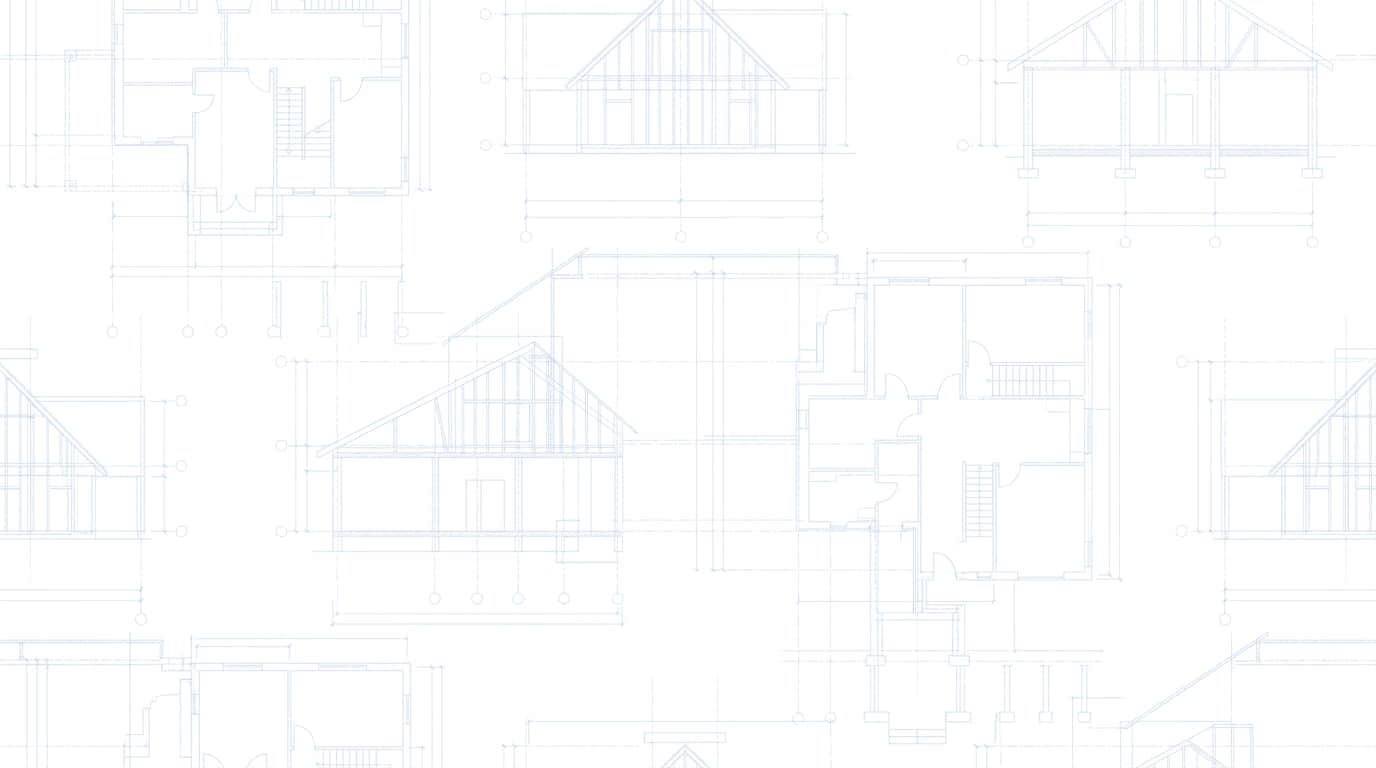
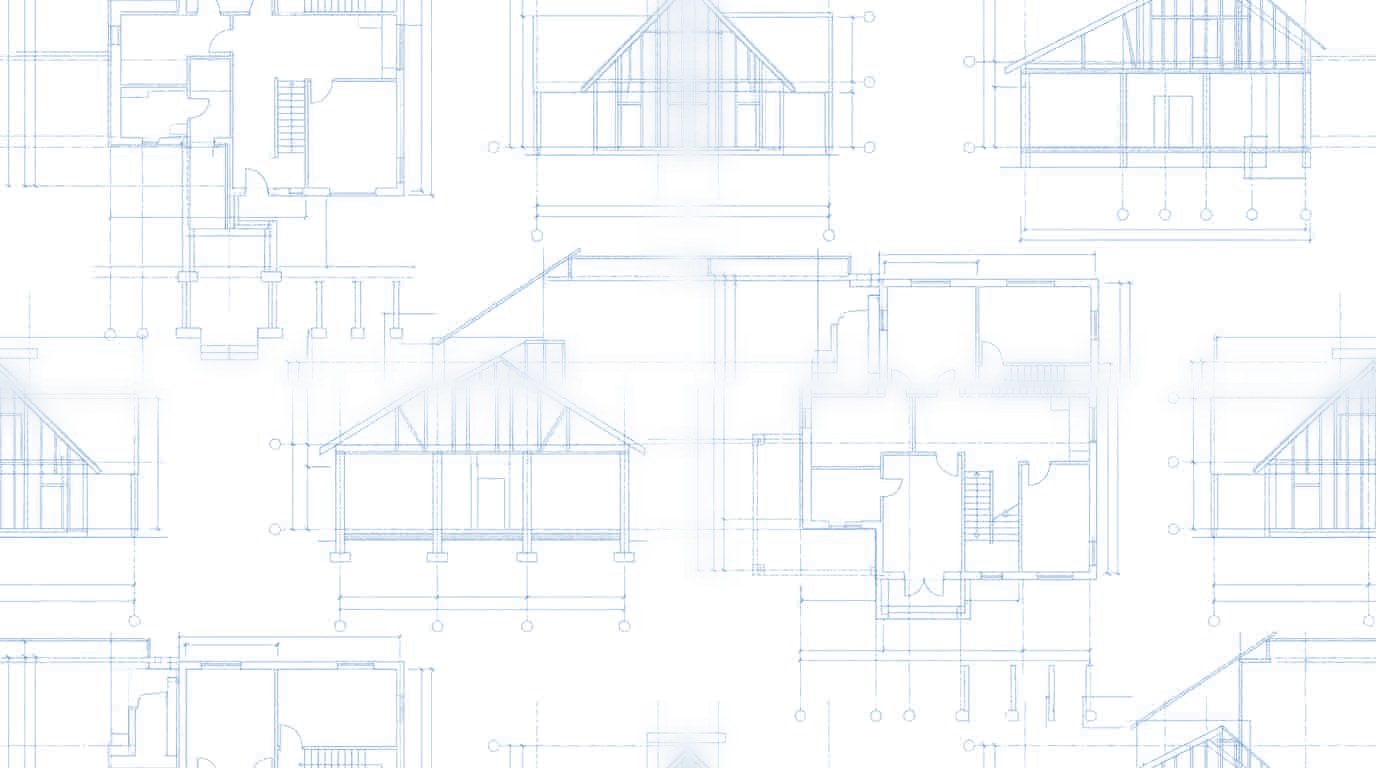
Ljus blueprint: tydligare AD-bla

diff --git a/src/styles/global.css b/src/styles/global.css
@@ -1456,9 +1456,10 @@ select.form-input option {
       rgba(255, 255, 255, var(--bp-light-overlay))
     ),
     var(--bp-light);
-  background-size: cover;
+  /* Sömlös, kaklingsbar ljus blueprint → repeat i fast storlek (ej cover). */
+  background-size: 1000px auto;
   background-position: center;
-  background-repeat: no-repeat;
+  background-repeat: repeat;
 }
 
 /* ===== MJUKA SEKTIONSSKARVAR =====